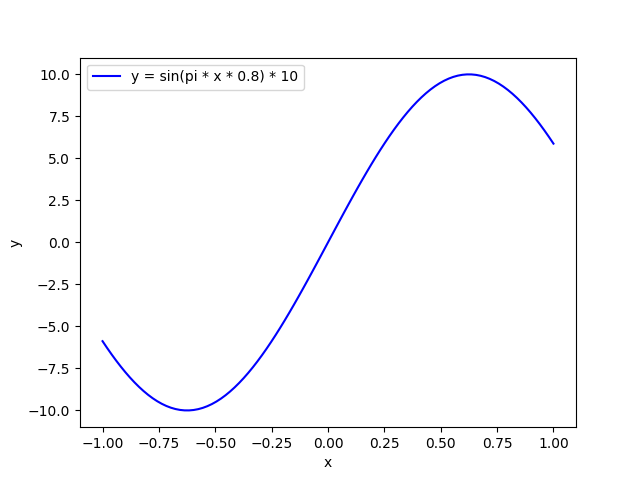
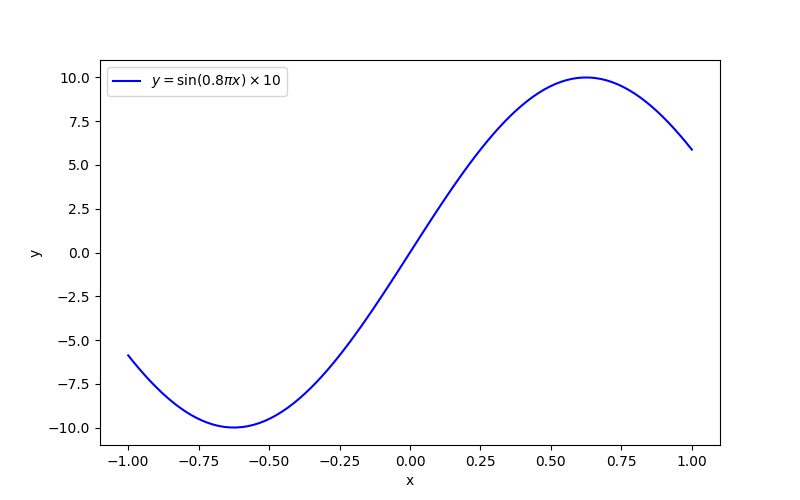
演習1.1, 1.2修正

diff --git a/week3_exercise4/dataset1.py b/week3_exercise4/dataset1.py
@@ -1,5 +1,7 @@
 import numpy as np
 import pandas as pd
+import matplotlib.pyplot as plt
+import unittest
 
 def true_function(x):
     return np.sin(np.pi * x * 0.8) * 10
@@ -13,7 +15,47 @@ def create_datasets():
     y = true_function(x)
 
     df = pd.DataFrame({
-        "観測値" : x,
+        "観測点" : x,
         "真値" : y,
     })
     return df
+
+class TestTrueFunction(unittest.TestCase):
+    def test_x_0(self):
+        y = true_function(0)
+        self.assertAlmostEqual(y, 0)
+
+if __name__ == "__main__":
+
+    # 演習1.1
+
+    # テスト
+    unittest.main(exit=False)
+
+    x = np.linspace(-1, 1, 100)
+    y = true_function(x)
+
+    plt.figure(figsize=(8,5))
+    plt.xlabel('x')
+    plt.ylabel('y')
+    plt.plot(x, y, color="blue", label=r"$y = \sin(0.8 \pi x) \times 10$")
+    plt.legend(loc="best")
+    plt.savefig("week3_exercise4/ex1.1.png")
+
+    plt.show()
+
+
+    # 演習1.2
+    x = np.linspace(-1, 1, 100)
+    y = true_function(x)
+
+    df = create_datasets()
+
+    plt.xlabel('x')
+    plt.ylabel('y')
+    plt.plot(x, y, color="blue", label=r"$y = \sin(0.8 \pi x) \times 10$")
+    plt.scatter(df["観測点"], df["真値"], color="red", label="samples")
+    plt.legend()
+    plt.savefig("week3_exercise4/ex1.2.png")
+
+    plt.show()
